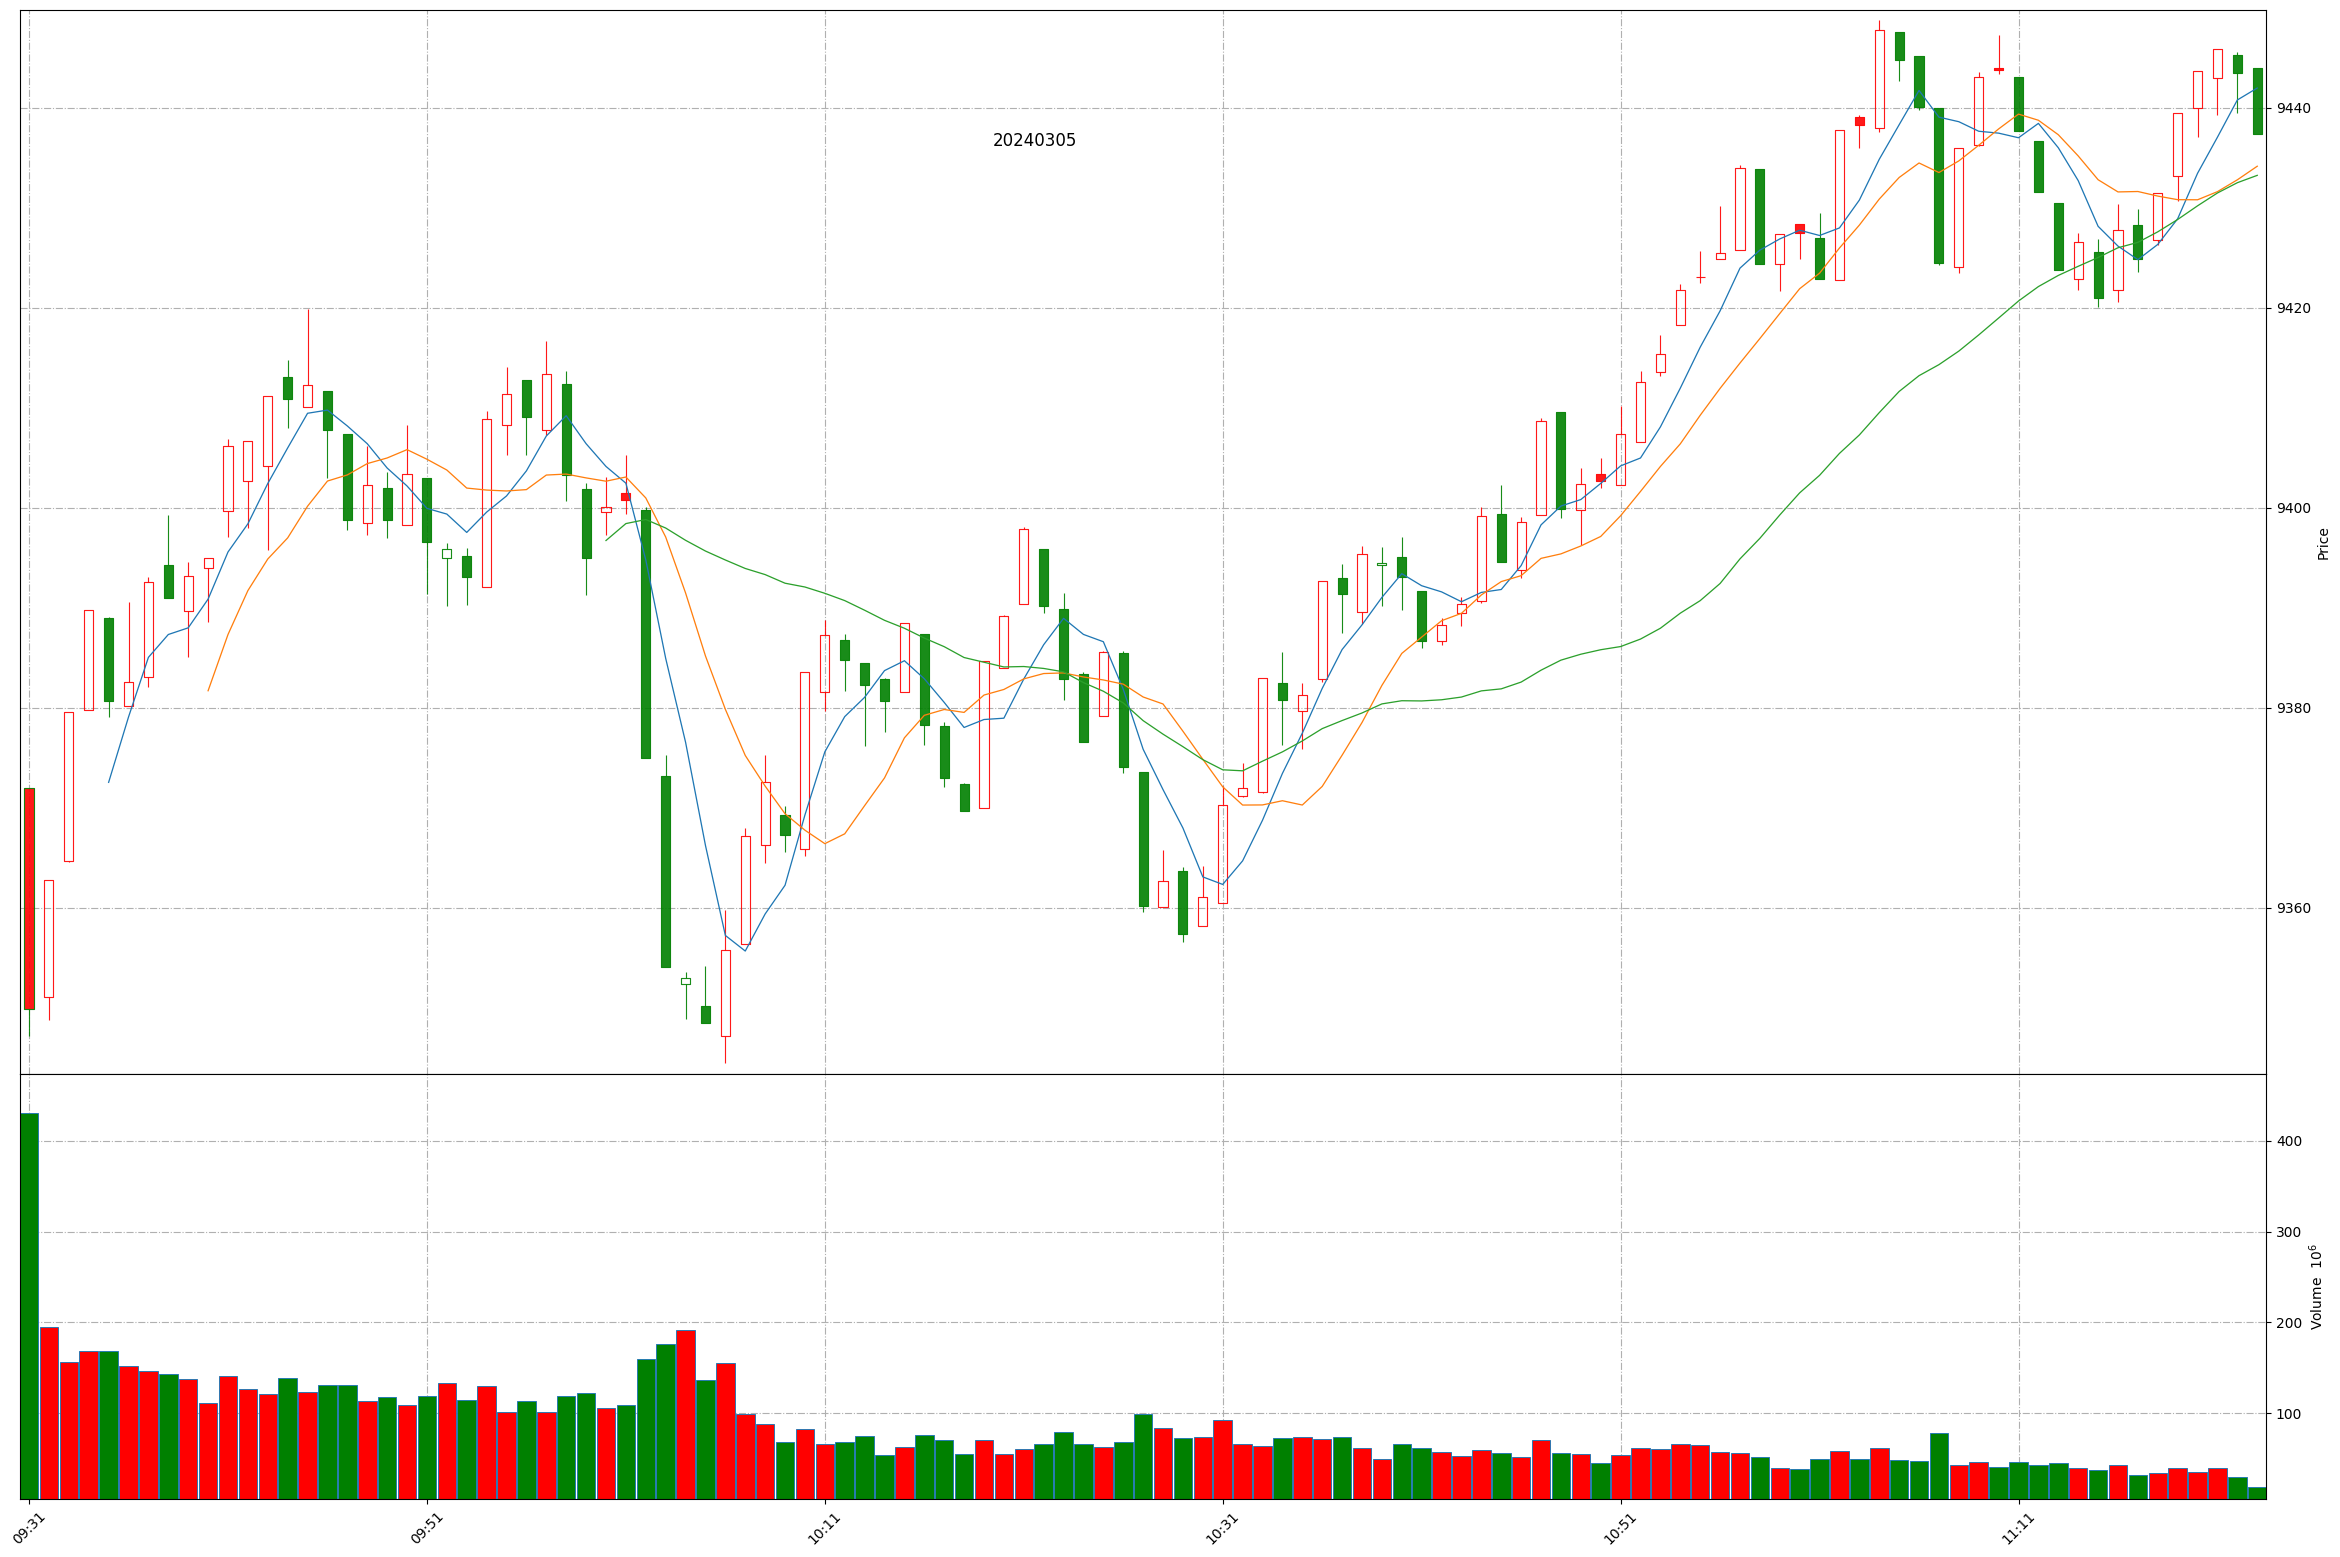
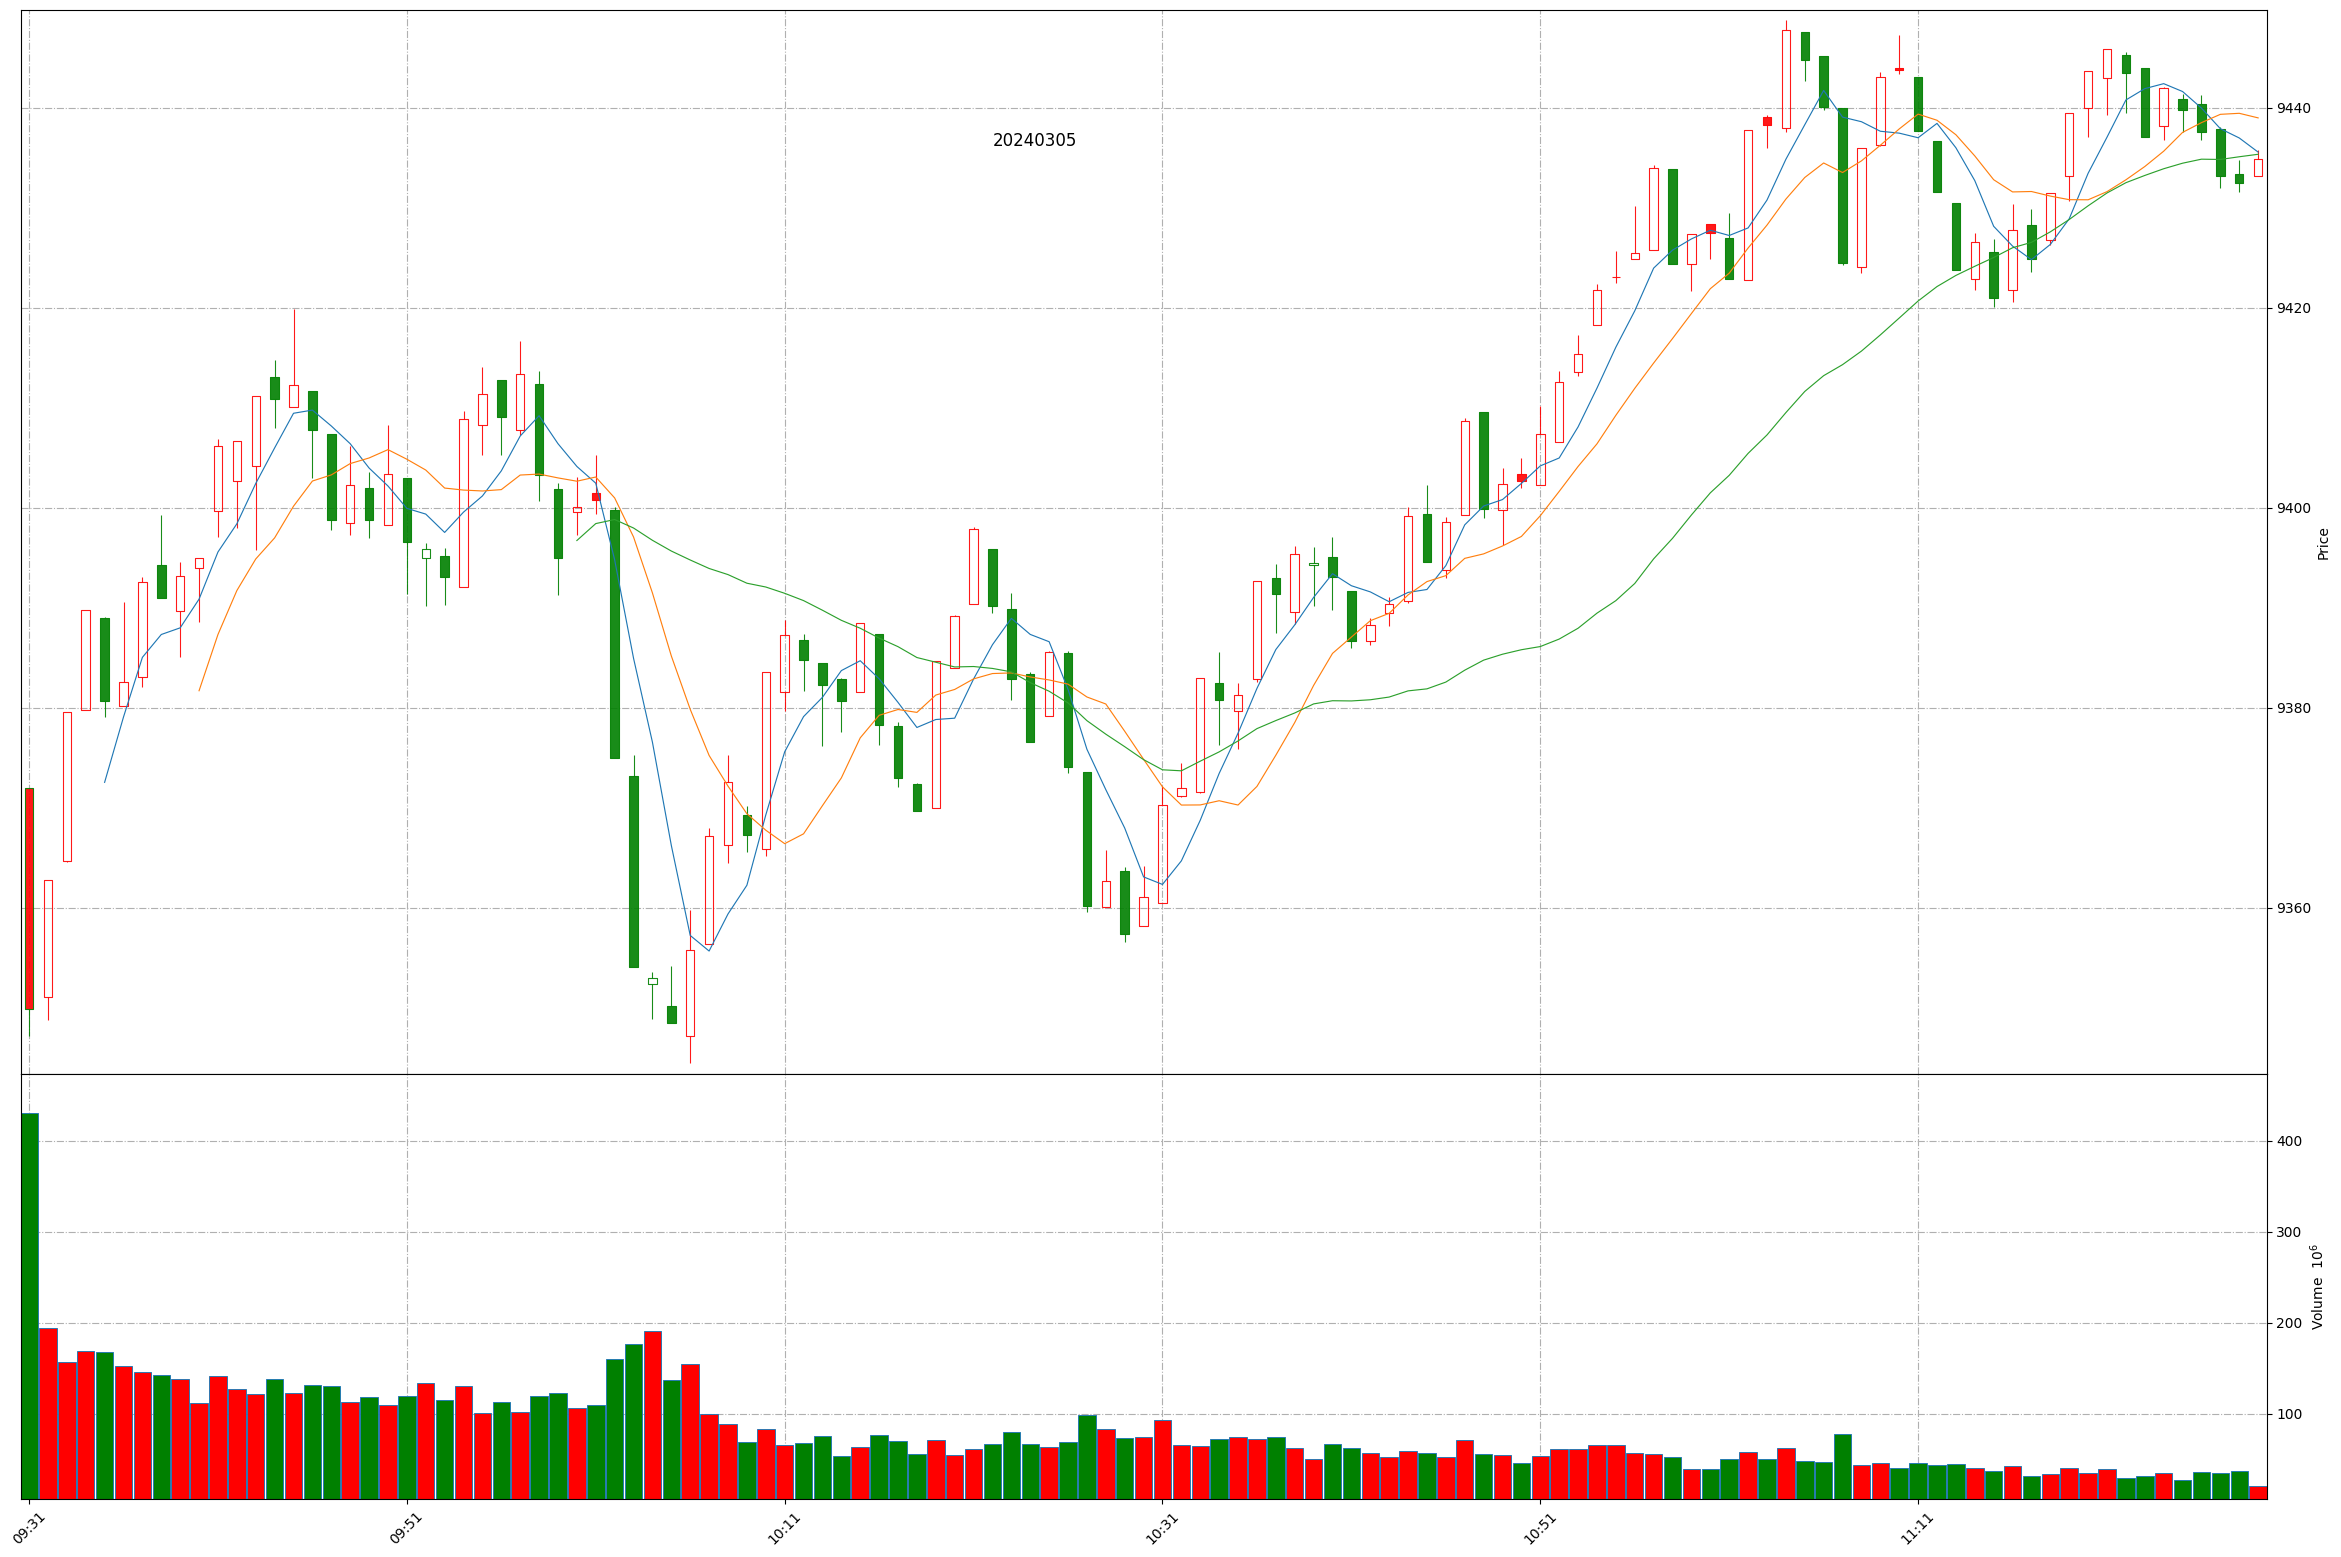
Github action update at 2024-03-05 11:28:44.

diff --git a/README.md b/README.md
@@ -1,11 +1,11 @@
 
 # Daily-A-share-market-quotes 每日 A 股指数（5min 更新）- 20240305
 
-### 上证指数 20240305 11:22
+### 上证指数 20240305 11:28
 ![](./fig/2024/3/20240305-sh000001.png)
 
-### 深证成指 20240305 11:22
+### 深证成指 20240305 11:28
 ![](./fig/2024/3/20240305-sz399001.png)
 
-### 北证50 20240305 11:22
+### 北证50 20240305 11:28
 ![](./fig/2024/3/20240305-bj899050.png)
